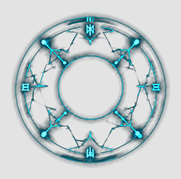
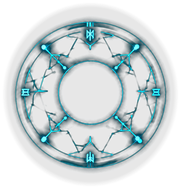
Add underlay assets

diff --git a/Art/components/under_slice.py b/Art/components/under_slice.py
@@ -1,6 +1,6 @@
 #!/usr/bin/env python3
 
-from PIL import Image, ImageFilter
+from PIL import Image, ImageFilter, ImageChops
 import os
 
 # --------------------------------------------------
@@ -11,21 +11,30 @@ OUT_LEFT = "cyan_underlay.png"
 OUT_RIGHT = "purple_underlay.png"
 
 # --------------------------------------------------
-# Detection settings (used only to find object bounds)
+# Detection settings
+# Used only for locating the visible object
 # --------------------------------------------------
-DETECT_CUTOFF = 28      # higher = tighter detection
-PADDING = 60            # extra space around detected object
+DETECT_CUTOFF = 28   # higher = tighter detection
+PADDING = 80         # extra crop area around detected object
 
 # --------------------------------------------------
-# Alpha settings (used for the final output image)
+# Alpha settings
+# Used for the final output appearance
 # --------------------------------------------------
-BLACK_CUTOFF = 8        # below this brightness is "dark background"
-SOFT_RANGE = 75         # how fast alpha ramps up above BLACK_CUTOFF
-DARK_FLOOR_ALPHA = 28   # preserves some dark surround for contrast
-BLUR_ALPHA = 1.0        # softens edge transitions slightly
+BLACK_CUTOFF = 8        # below this brightness is considered dark background
+SOFT_RANGE = 75         # alpha ramps up across this brightness range
+DARK_FLOOR_ALPHA = 24   # preserves some dark area at low alpha for contrast
+BLUR_ALPHA = 1.0        # softens alpha slightly
 
 # --------------------------------------------------
-# Output scale
+# Outer envelope settings
+# These force alpha to 0 near/beyond the border
+# --------------------------------------------------
+EDGE_INSET = 8       # distance in from crop edge before fade starts
+EDGE_FEATHER = 22    # width of fade band to full transparency
+
+# --------------------------------------------------
+# Output scaling
 # 1 = full size
 # 2 = half width/height
 # 4 = quarter width/height
@@ -40,7 +49,7 @@ def clamp(v, lo, hi):
 def find_content_bbox(img, cutoff):
     """
     Find bounding box of all pixels above a brightness cutoff.
-    Uses a hard detection mask only for locating the object.
+    This is used only to detect the object bounds.
     """
     img = img.convert("RGBA")
     px = img.load()
@@ -60,8 +69,8 @@ def find_content_bbox(img, cutoff):
 
 def make_alpha_preserving_dark(img):
     """
-    Build alpha from brightness but preserve a small amount of dark background
-    as low alpha, so the asset retains some contrast when composited.
+    Build alpha from brightness but preserve some low-alpha dark surround,
+    so the underlay keeps contrast when composited under the orb.
     """
     img = img.convert("RGBA")
     px = img.load()
@@ -91,6 +100,49 @@ def make_alpha_preserving_dark(img):
     return out
 
 
+def make_radial_envelope(size, inset=8, feather=22):
+    """
+    Create an elliptical alpha envelope:
+    - full alpha in the interior
+    - fades toward 0 near the border
+    - 0 outside the outer boundary
+    """
+    w, h = size
+    mask = Image.new("L", (w, h), 0)
+    px = mask.load()
+
+    cx = (w - 1) / 2.0
+    cy = (h - 1) / 2.0
+
+    rx_outer = max(1.0, (w / 2.0) - inset)
+    ry_outer = max(1.0, (h / 2.0) - inset)
+
+    rx_inner = max(1.0, rx_outer - feather)
+    ry_inner = max(1.0, ry_outer - feather)
+
+    for y in range(h):
+        for x in range(w):
+            dx = x - cx
+            dy = y - cy
+
+            outer_norm = (dx * dx) / (rx_outer * rx_outer) + (dy * dy) / (ry_outer * ry_outer)
+            inner_norm = (dx * dx) / (rx_inner * rx_inner) + (dy * dy) / (ry_inner * ry_inner)
+
+            if inner_norm <= 1.0:
+                a = 255
+            elif outer_norm >= 1.0:
+                a = 0
+            else:
+                # Linear fade between inner and outer ellipse
+                t = (outer_norm - 1.0) / (outer_norm - inner_norm)
+                t = clamp(t, 0.0, 1.0)
+                a = int(255 * t)
+
+            px[x, y] = a
+
+    return mask
+
+
 def crop_with_padding(img, bbox, padding):
     w, h = img.size
     left, top, right, bottom = bbox
@@ -112,6 +164,17 @@ def process_half(img, out_path):
     cropped = crop_with_padding(img, bbox, PADDING)
     out = make_alpha_preserving_dark(cropped)
 
+    # Apply elliptical envelope so alpha reaches 0 at the outside border
+    envelope = make_radial_envelope(
+        out.size,
+        inset=EDGE_INSET,
+        feather=EDGE_FEATHER
+    )
+
+    r, g, b, a = out.split()
+    a = ImageChops.multiply(a, envelope)
+    out.putalpha(a)
+
     if DOWNSAMPLE_FACTOR > 1:
         new_w = max(1, out.size[0] // DOWNSAMPLE_FACTOR)
         new_h = max(1, out.size[1] // DOWNSAMPLE_FACTOR)
@@ -129,10 +192,8 @@ def main():
     w, h = img.size
     mid = w // 2
 
-    # Left/cyan side
+    # Split into left and right halves
     left_half = img.crop((0, 0, mid, h))
-
-    # Right/purple side
     right_half = img.crop((mid, 0, w, h))
 
     process_half(left_half, OUT_LEFT)
